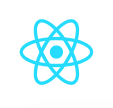
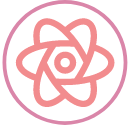
cambio estilos de los iconos de la seecion skills

diff --git a/index.html b/index.html
@@ -6,7 +6,6 @@
     <meta name="viewport" content="width=device-width, initial-scale=1.0">
     <link rel="stylesheet" href="style.css">
     <title>Portfolio</title>
-
 </head>
 
 <body>
@@ -36,13 +35,13 @@
         <div class="text-content-principal-section">
             <h2>HOLA! SOY JENIFFER H.</h2>
             <h1>DESARRO-<br />LLADORA</h1>
-            <p>Amante de la Medicina, Diseño y Contadora Compulsiva de Historias</p>
+            <p>Amante de la Medicina, el Diseño y Contadora Compulsiva de Historias</p>
         </div>
     </section>
 
     <!-- seccion skills -->
-    <!-- texto de seccion skills -->
     <div class="skills-section">
+        <!-- texto de seccion skills -->
         <div class="text-skills-section">
             <h1>MIS CONOCIMIENTOS</h1>
             <h3>Lorem ipsum dolor sit amet consectetur <br /> adipisicing elit. Beatae eaque neque molestias
@@ -52,29 +51,29 @@
         <!-- primera linea de iconos -->
         <div class="icons-skills-section">
             <div>
-                <img class="imagen" src="./img/1.png">
+                <img src="./img/1.png">
                 <p>HTML 5</p>
             </div>
             <div>
-                <img class="imagen" src="./img/2.png">
+                <img src="./img/2.png">
                 <p>GIT</p>
             </div>
 
             <div>
-                <img class="imagen" src="./img/3.png">
+                <img src="./img/3.png">
                 <p>React</p>
             </div>
 
             <div>
-                <img class="imagen" src="./img/4.png">
+                <img src="./img/4.png">
                 <p>JavaScript</p>
             </div>
             <div>
-                <img class="imagen" src="./img/5.png">
+                <img src="./img/5.png">
                 <p>Sass</p>
             </div>
             <div>
-                <img class="imagen" src="./img/6.png">
+                <img src="./img/6.png">
                 <p>CSS 3</p>
             </div>
 

diff --git a/style.css b/style.css
@@ -43,7 +43,6 @@ a:hover {
 /*FIN comportamiento de links*/
 
 section {
-    width: 100vw;
     height: 600px;
 }
 
@@ -95,8 +94,8 @@ img {
 }
 
 .skills-section img {
-    width: 100px;
-    height: 95px;
+    width: 130px;
+    height: 125px;
 }
 
 .text-skills-section {
@@ -127,8 +126,4 @@ img {
     font-weight: 700;
     display: flex;
     justify-content: center;
-}
-
-.icons-skills-section img {
-    display: flex;
 }
